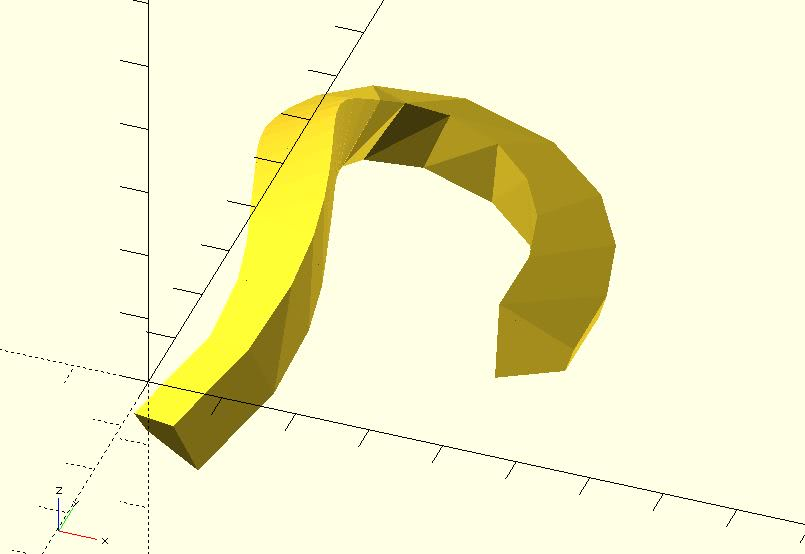
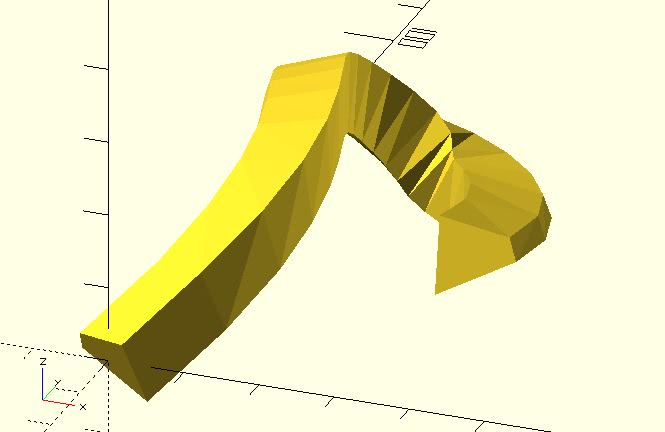
updated doc

diff --git a/docs/lib-path_extrude.md b/docs/lib-path_extrude.md
@@ -21,27 +21,27 @@ When using this module, you should use points to represent the 2D shape. If your
 	include <polysections.scad>;
 	include <path_extrude.scad>;
 	include <bezier_curve.scad>;
-	
+
 	t_step = 0.05;
 	width = 2;
-	
+
 	p0 = [0, 0, 0];
 	p1 = [40, 60, 35];
 	p2 = [-50, 70, 0];
 	p3 = [20, 150, -35];
 	p4 = [30, 50, -3];
-	
-	shape_pts = [
-	    [10, 0],
-	    [15, 10],
-	    [18, 9],
-	    [20, 0]
+
+	shape_pts = [   
+		[5, -5],
+		[3, 4],
+		[0, 5],
+		[-5, -5] 
 	];
-	
+
 	path_pts = bezier_curve(t_step, 
-	    [p0, p1, p2, p3, p4]
+		[p0, p1, p2, p3, p4]
 	);
-	
+
 	path_extrude(shape_pts, path_pts);
 
 ![path_extrude](images/lib-path_extrude-1.JPG)
@@ -50,33 +50,33 @@ When using this module, you should use points to represent the 2D shape. If your
 	include <polysections.scad>;
 	include <path_extrude.scad>;
 	include <bezier_curve.scad>;
-	
+
 	t_step = 0.05;
 	width = 2;
-	
+
 	p0 = [0, 0, 0];
 	p1 = [40, 60, 35];
 	p2 = [-50, 70, 0];
 	p3 = [20, 150, -35];
 	p4 = [30, 50, -3];
-	
+
 	shape_pts = [
-	    // outer
-	    [10, 0],
-	    [15, 10],
-	    [18, 9],
-	    [20, 0],
-	    // inner
-	    [12, 2],
-	    [15, 7],
-	    [17, 7],
-	    [18, 2]
+		// outer
+		[20, 0],
+		[18, 9],
+		[15, 10],    
+		[10, 0],
+		// inner
+		[18, 2],
+		[17, 7],
+		[15, 7],
+		[12, 2]
 	];
-	
+
 	path_pts = bezier_curve(t_step, 
-	    [p0, p1, p2, p3, p4]
+		[p0, p1, p2, p3, p4]
 	);
-	
+
 	path_extrude(shape_pts, path_pts, triangles = "HOLLOW");
 
 ![path_extrude](images/lib-path_extrude-2.JPG)
@@ -92,18 +92,18 @@ When using this module, you should use points to represent the 2D shape. If your
 	p0 = [0, 0, 0];
 	p1 = [40, 60, 35];
 	p2 = [-50, 70, 0];
-	p3 = [20, 150, -35];
-	p4 = [30, 50, -3];
+	p3 = [20, 150, -5];
+	p4 = [50, 50, -3];
 	
 	shape_pts = [
 	    // outer
+        [30, 0],
+        [15, 10],
 	    [10, 0],
-	    [15, 10],
-	    [30, 0],
 	    // inner
-	    [12, 1],
-	    [15, 8],
-	    [26, 1],        
+        [26, 1],
+        [15, 8],
+	    [12, 1]
 	];
 	
 	path_pts = bezier_curve(t_step, 
@@ -114,13 +114,13 @@ When using this module, you should use points to represent the 2D shape. If your
 	    shape_pts, 
 	    path_pts, 	   
 	    triangles = [
-	        [0, 3, 4],
-	        [0, 4, 1],
-	        [1, 4, 5],
-	        [1, 5, 2],
-	        [2, 5, 3],
-	        [2, 3, 0]
-	    ]
+            [0, 4, 3],
+            [0, 1, 4],
+            [1, 5, 4],
+            [1, 2, 5],
+            [2, 3, 5],
+            [2, 0, 3]
+        ]
 	);
 
 ![path_extrude](images/lib-path_extrude-3.JPG)
